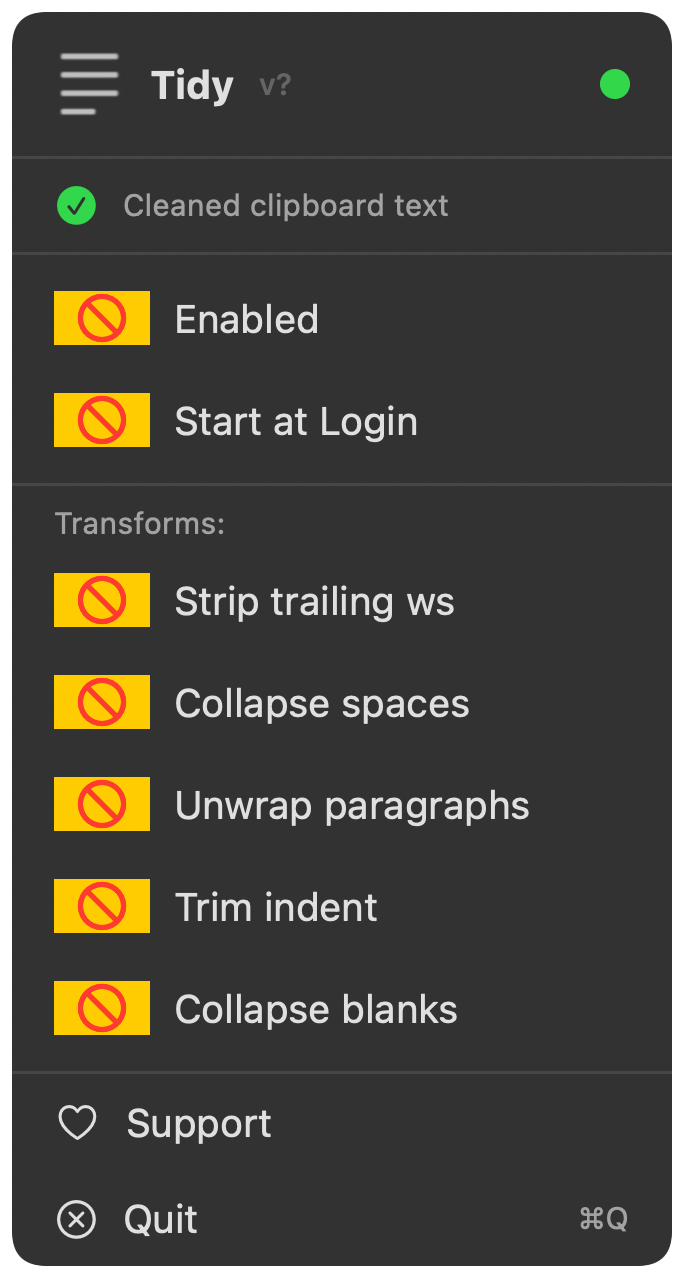
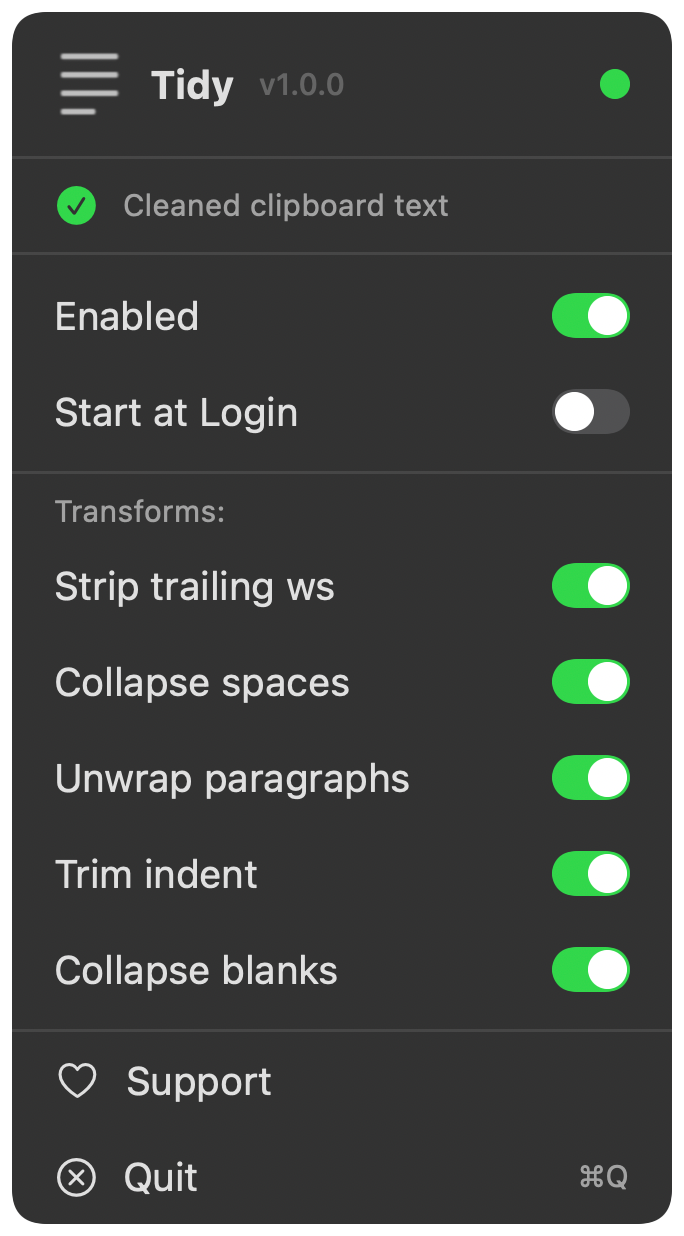
Label-left toggles, fix screenshot rendering

diff --git a/Tidy/ScreenshotGenerator.swift b/Tidy/ScreenshotGenerator.swift
@@ -3,11 +3,7 @@ import SwiftUI
 
 enum ScreenshotGenerator {
     @MainActor static func generate(outputPath: String, scale: CGFloat = 3.0) {
-        let settings = SettingsStore(userDefaults: UserDefaults(suiteName: "screenshot")!)
-        let monitor = ClipboardMonitor(cleaner: TextCleaner(), settings: settings)
-        monitor.lastResult = CleanResult(cleaned: "Cleaned clipboard text", didChange: true)
-
-        let view = MenuBarView(monitor: monitor, settings: settings)
+        let view = ScreenshotView()
             .background(Color(nsColor: .windowBackgroundColor))
             .clipShape(RoundedRectangle(cornerRadius: 10))
             .padding(4)
@@ -33,5 +29,113 @@ enum ScreenshotGenerator {
             fputs("Failed to write: \(error)\n", stderr)
             exit(1)
         }
+    }
+}
+
+private struct ScreenshotToggle: View {
+    let label: String
+    let isOn: Bool
+
+    var body: some View {
+        HStack {
+            Text(label)
+            Spacer()
+            Capsule()
+                .fill(isOn ? Color.green : Color.gray.opacity(0.3))
+                .frame(width: 26, height: 15)
+                .overlay(alignment: isOn ? .trailing : .leading) {
+                    Circle()
+                        .fill(.white)
+                        .frame(width: 13, height: 13)
+                        .padding(.horizontal, 1)
+                }
+        }
+        .padding(.horizontal, 14)
+        .padding(.vertical, 6)
+    }
+}
+
+private struct ScreenshotView: View {
+    let supportURL = URL(string: "https://buymeacoffee.com/maferland")!
+
+    var body: some View {
+        VStack(spacing: 0) {
+            HStack {
+                Image(nsImage: MenuBarView.headerIcon)
+                    .resizable()
+                    .frame(width: 24, height: 24)
+                Text("Tidy")
+                    .font(.headline)
+                Text("v1.0.0")
+                    .font(.caption2)
+                    .foregroundStyle(.tertiary)
+                Spacer()
+                Circle()
+                    .fill(.green)
+                    .frame(width: 10, height: 10)
+            }
+            .padding(.horizontal, 14)
+            .padding(.vertical, 12)
+
+            Divider()
+
+            HStack {
+                Image(systemName: "checkmark.circle.fill")
+                    .foregroundStyle(.green)
+                Text("Cleaned clipboard text")
+                    .font(.caption)
+                    .foregroundStyle(.secondary)
+                Spacer()
+            }
+            .padding(.horizontal, 14)
+            .padding(.vertical, 8)
+
+            Divider()
+
+            VStack(alignment: .leading, spacing: 4) {
+                ScreenshotToggle(label: "Enabled", isOn: true)
+                ScreenshotToggle(label: "Start at Login", isOn: false)
+            }
+            .padding(.vertical, 6)
+
+            Divider()
+
+            VStack(alignment: .leading, spacing: 4) {
+                Text("Transforms:")
+                    .font(.caption)
+                    .foregroundStyle(.secondary)
+                    .padding(.horizontal, 14)
+                    .padding(.top, 6)
+
+                ScreenshotToggle(label: "Strip trailing ws", isOn: true)
+                ScreenshotToggle(label: "Collapse spaces", isOn: true)
+                ScreenshotToggle(label: "Unwrap paragraphs", isOn: true)
+                ScreenshotToggle(label: "Trim indent", isOn: true)
+                ScreenshotToggle(label: "Collapse blanks", isOn: true)
+            }
+            .padding(.bottom, 6)
+
+            Divider()
+
+            VStack(spacing: 0) {
+                HStack {
+                    Label("Support", systemImage: "heart")
+                    Spacer()
+                }
+                .padding(.horizontal, 14)
+                .padding(.vertical, 8)
+
+                HStack {
+                    Label("Quit", systemImage: "xmark.circle")
+                    Spacer()
+                    Text("\u{2318}Q")
+                        .font(.caption)
+                        .foregroundStyle(.secondary)
+                }
+                .padding(.horizontal, 14)
+                .padding(.vertical, 8)
+            }
+        }
+        .frame(width: 220)
     }
 }

diff --git a/Tidy/MenuBarView.swift b/Tidy/MenuBarView.swift
@@ -106,12 +106,12 @@ struct MenuBarView: View {
 
     private func toggleRow(isOn: Binding<Bool>, label: String) -> some View {
         HStack {
+            Text(label)
+            Spacer()
             Toggle("", isOn: isOn)
                 .toggleStyle(.switch)
                 .controlSize(.small)
                 .labelsHidden()
-            Text(label)
-            Spacer()
         }
         .padding(.horizontal, 14)
         .padding(.vertical, 6)

diff --git a/README.md b/README.md
@@ -9,7 +9,7 @@
 ---
 
 <p align="center">
-  <img src="assets/popover.png" width="400" alt="Tidy menu bar popover showing transforms and status">
+  <img src="assets/popover.png" width="280" alt="Tidy menu bar popover showing transforms and status">
 </p>
 
 ## Why?
